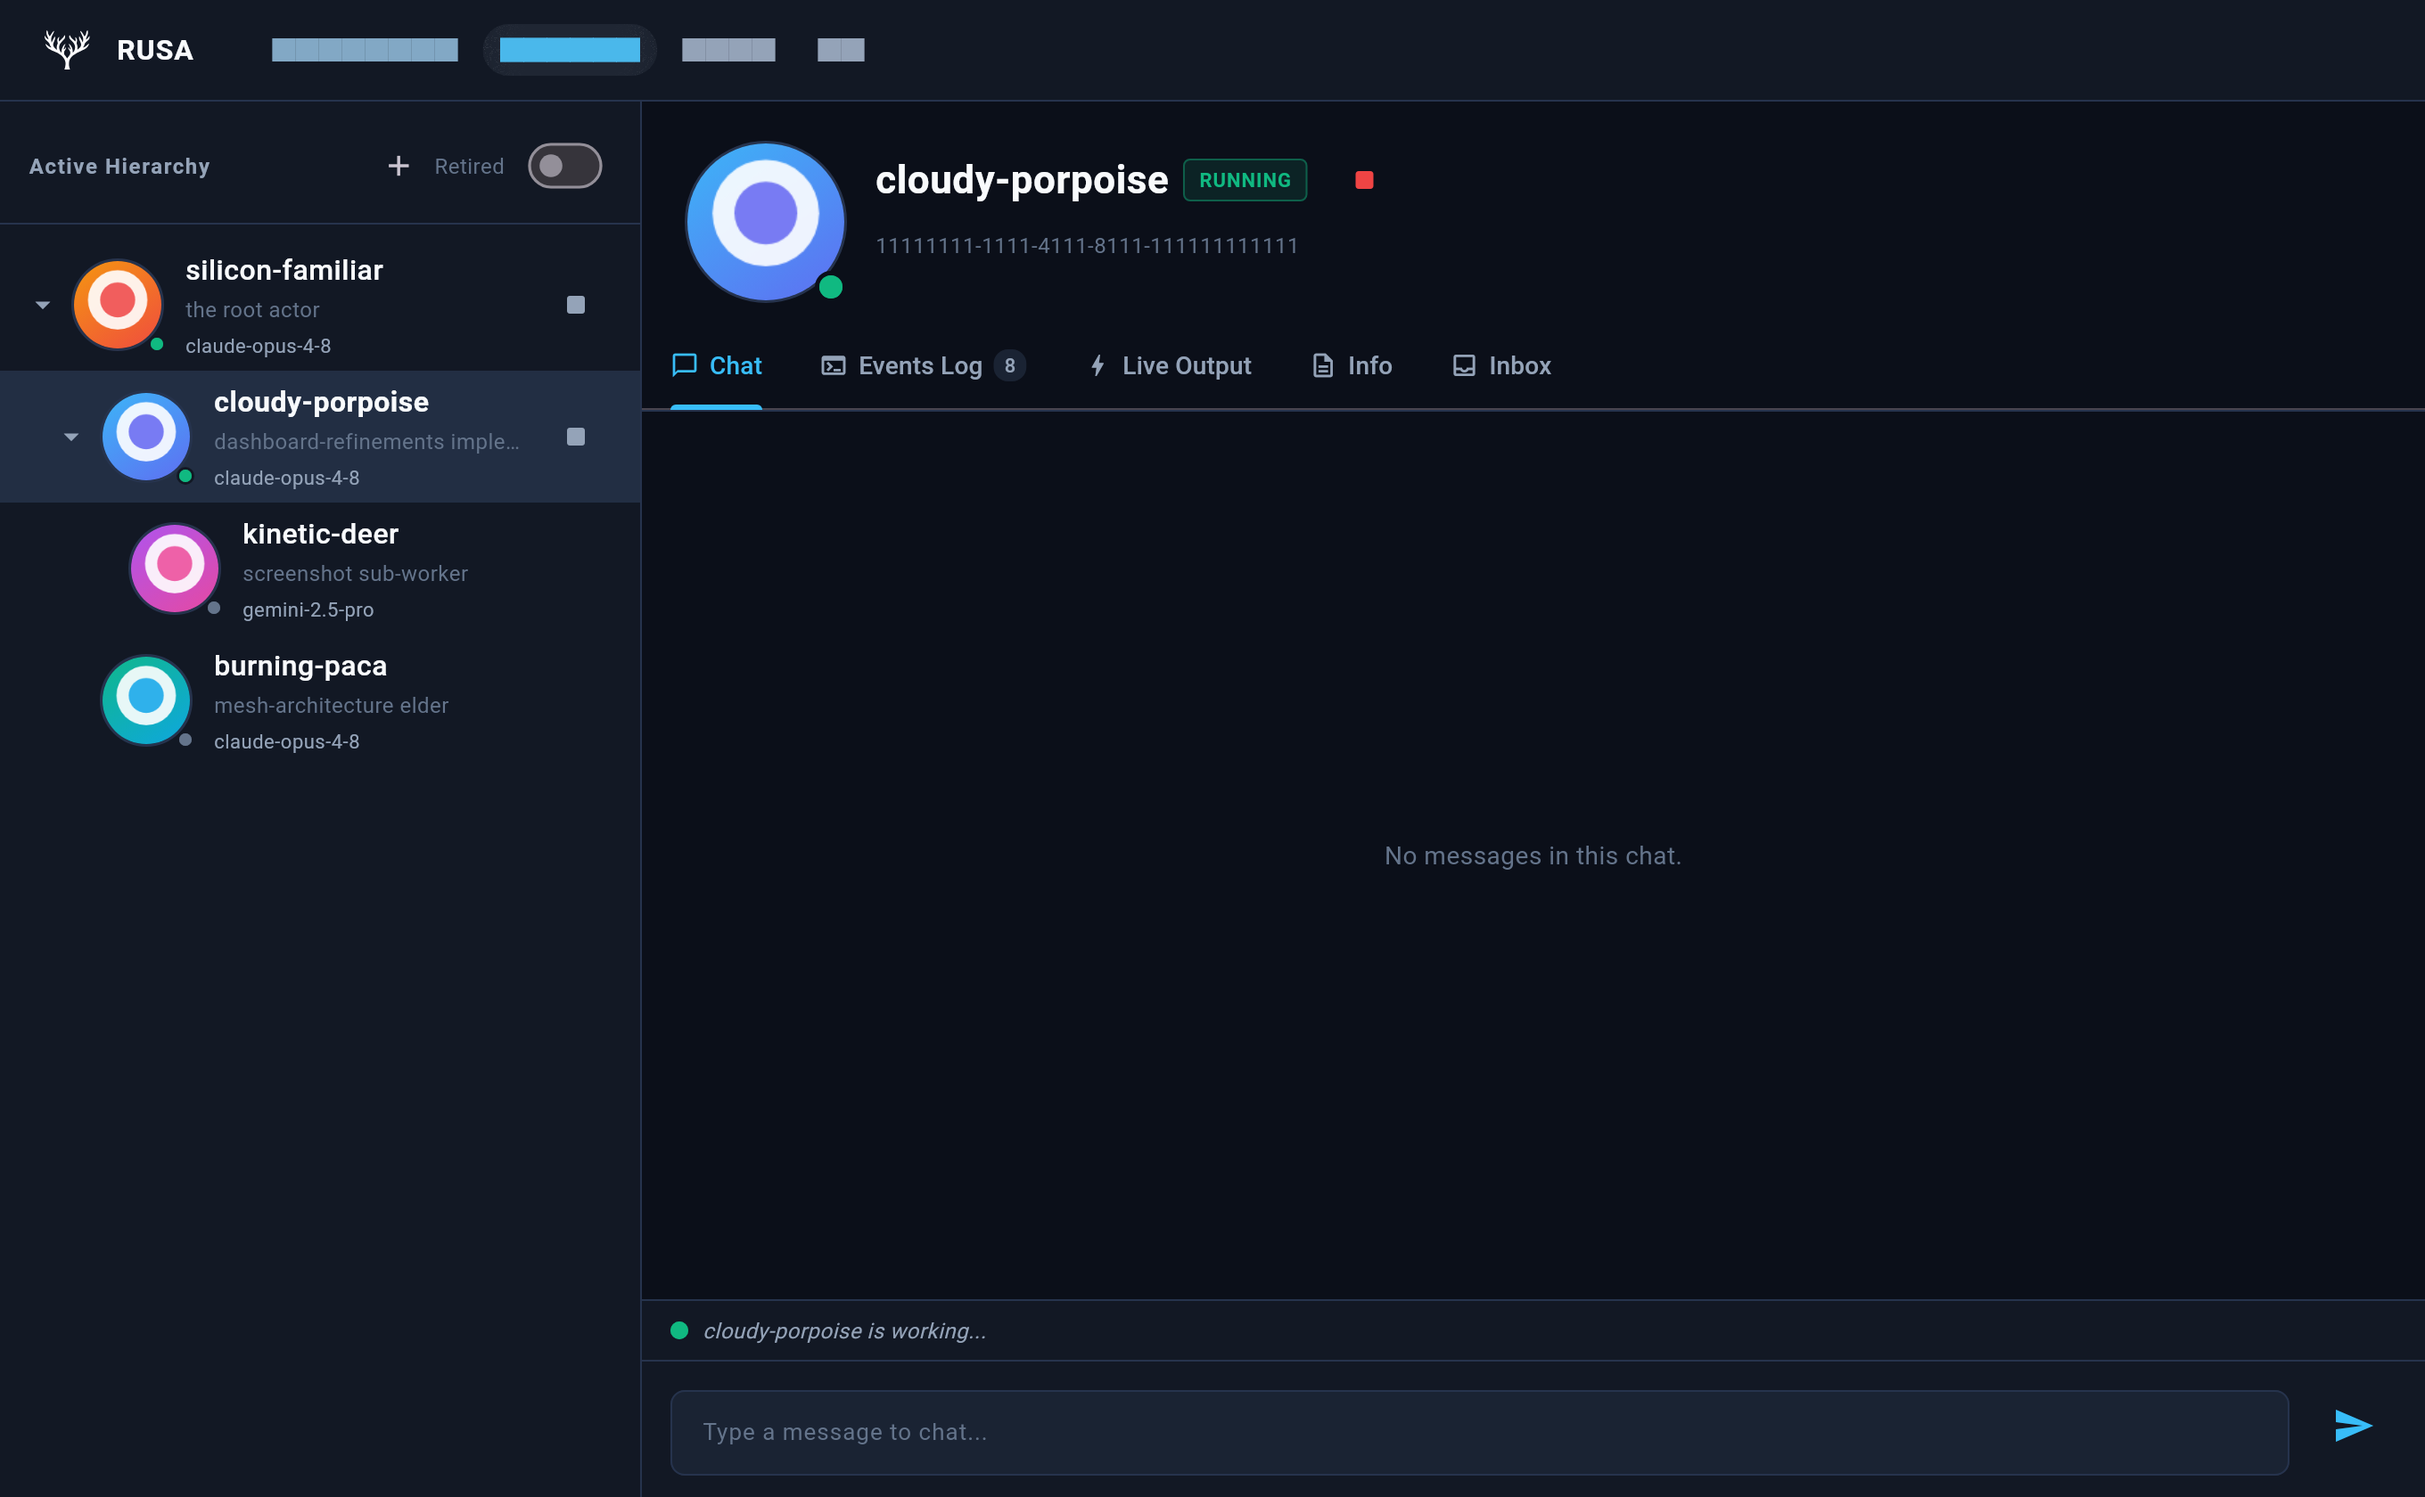
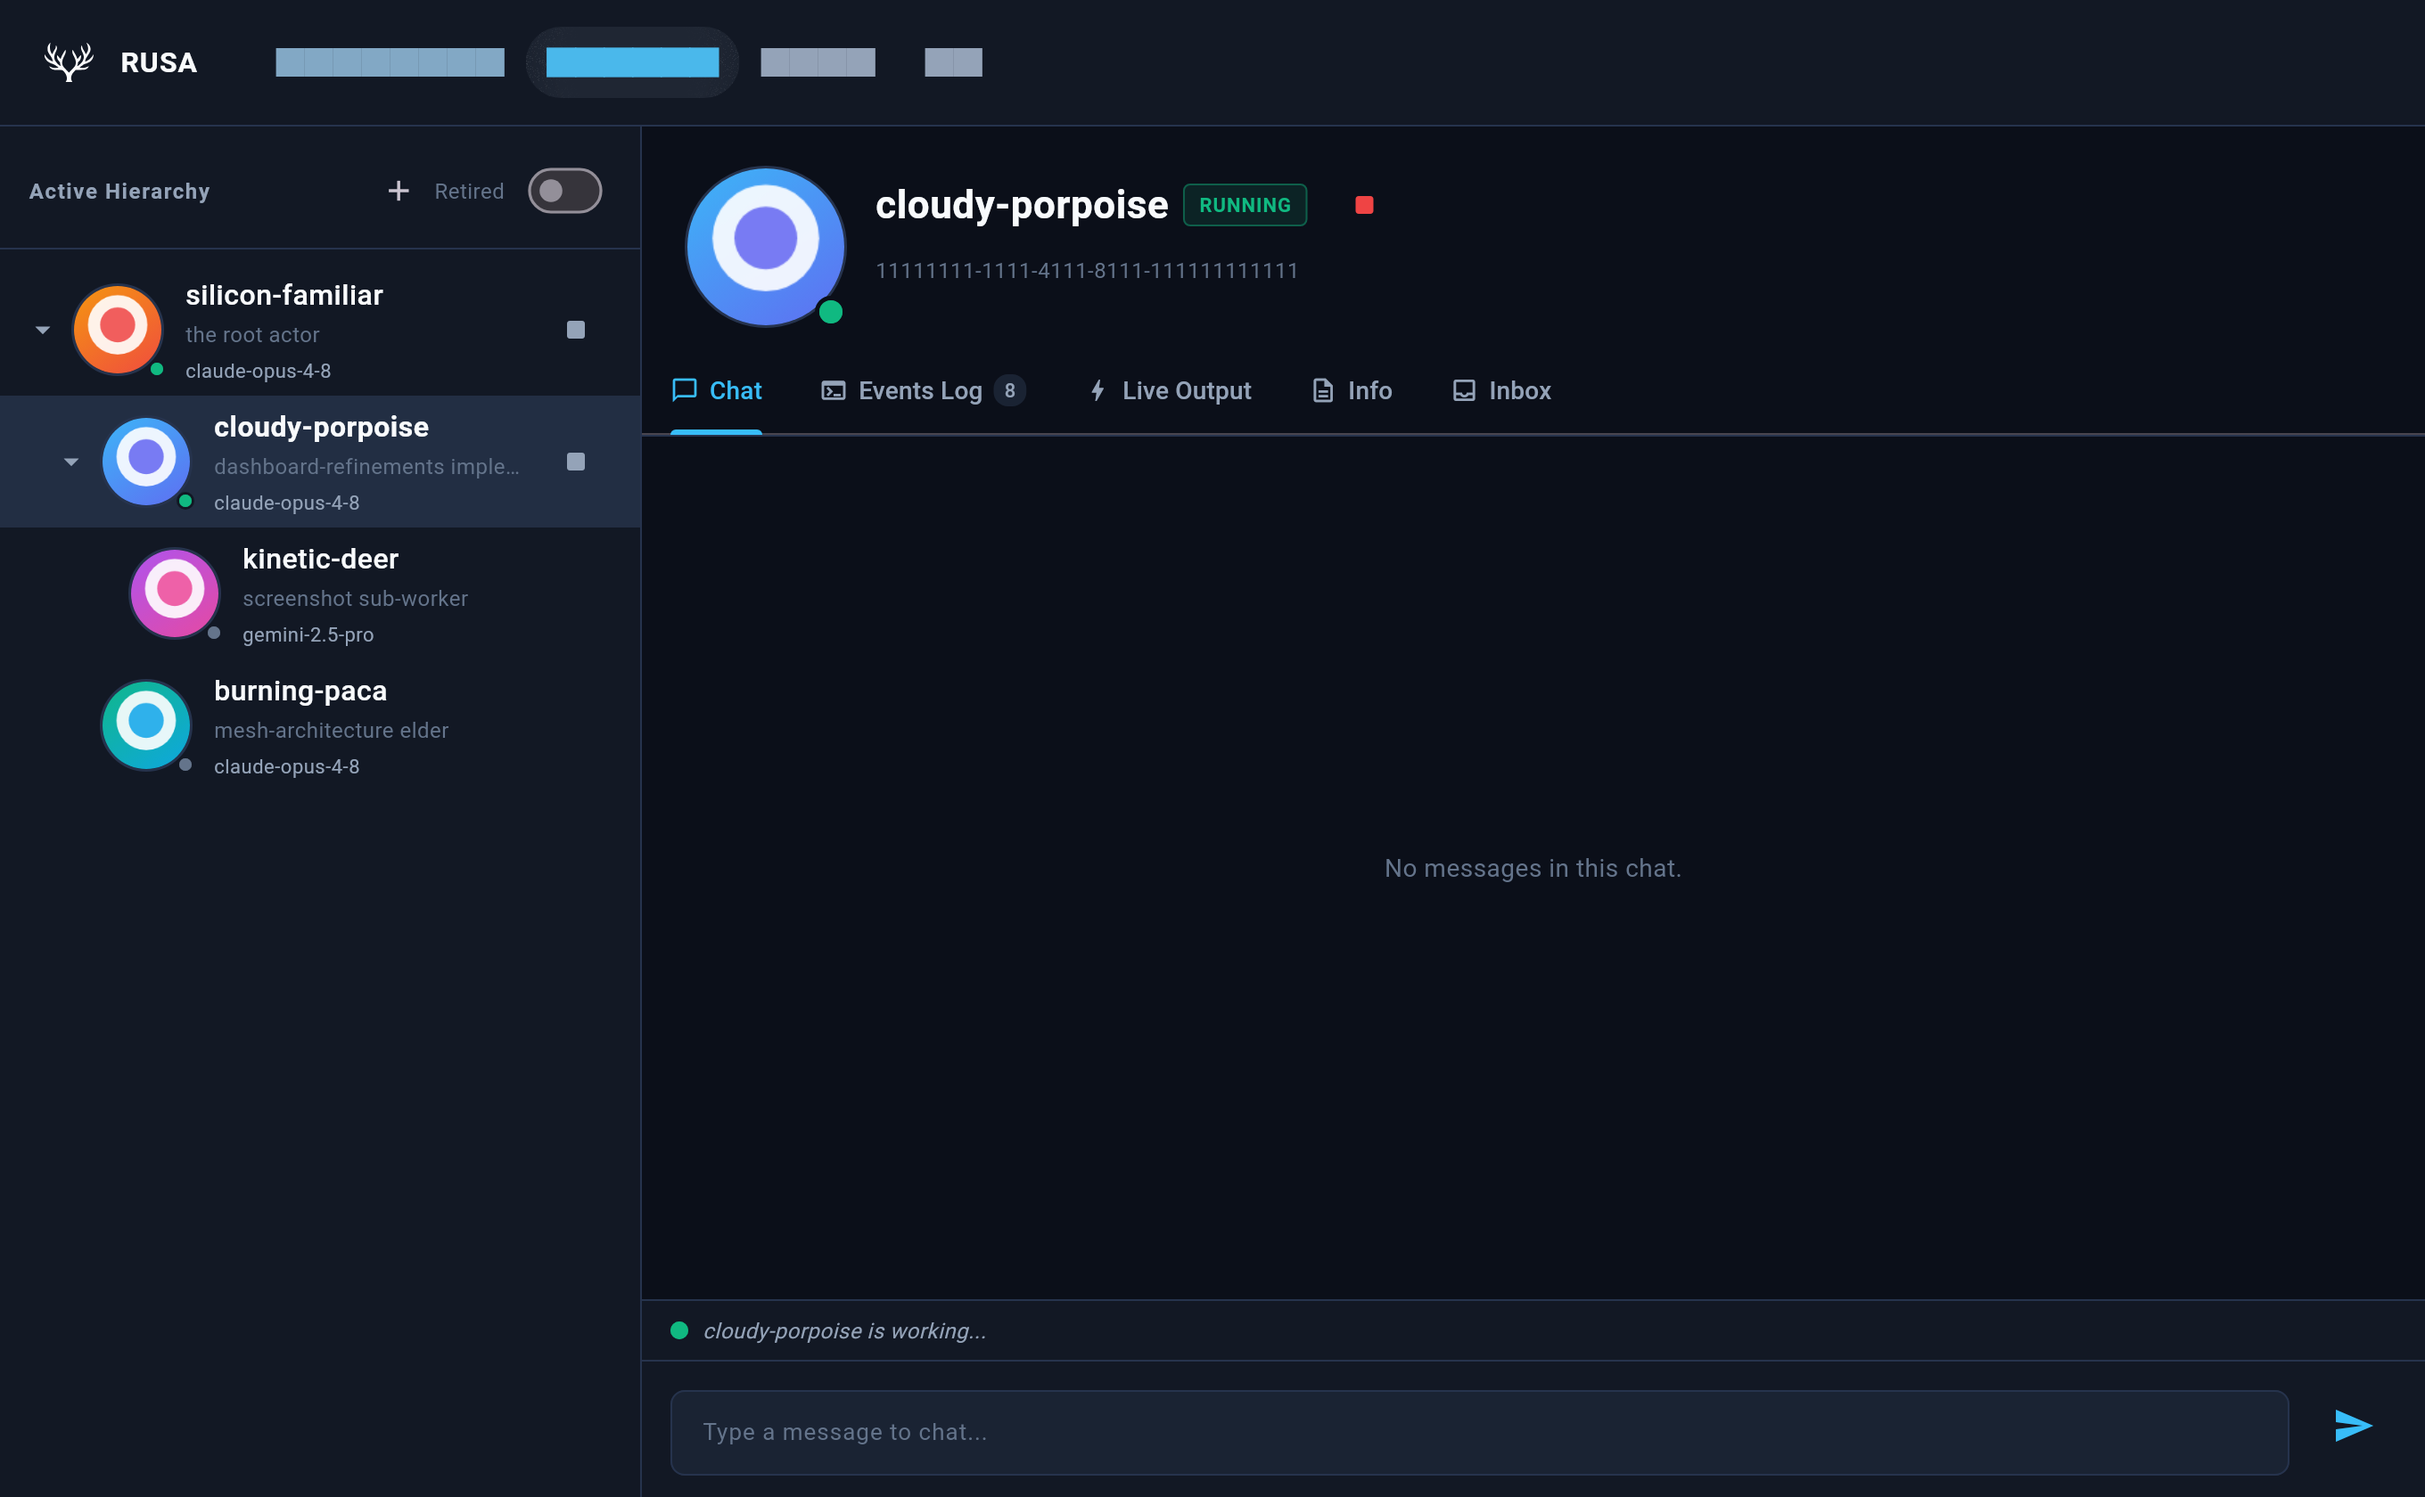
test(dashboard): cover narrow header mark review

diff --git a/packages/rusa/flutter_dashboard/test/header_mark_test.dart b/packages/rusa/flutter_dashboard/test/header_mark_test.dart
@@ -26,6 +26,20 @@ Widget _header(DashboardStore store) => MaterialApp(
   ),
 );
 
+Widget _phoneHeader(DashboardStore store, double width) => MaterialApp(
+  home: Scaffold(
+    body: SizedBox(
+      width: width,
+      child: MeshHeader(
+        store: store,
+        selected: DashboardView.actors,
+        onSelect: (_) {},
+        onMenuTap: () {},
+      ),
+    ),
+  ),
+);
+
 Widget _drawer(DashboardStore store) => MaterialApp(
   home: Scaffold(
     body: SizedBox(
@@ -205,6 +219,50 @@ void main() {
     expect(find.byType(BrandMark), findsOneWidget);
     await tester.runAsync(store.dispose);
   });
+
+  testWidgets(
+    'phone header keeps its actual compact controls inside 320px and 360px',
+    (tester) async {
+      final api = FakeApi()
+        ..halted = true
+        ..schedulerWarning = ['`atq` cannot be queried']
+        ..threadsResult = [makeThread('root', created: 't0')];
+      final store = DashboardStore(api: api, stream: FakeStream());
+      await tester.runAsync(store.init);
+      addTearDown(() => tester.binding.setSurfaceSize(null));
+
+      for (final width in [320.0, 360.0]) {
+        await tester.binding.setSurfaceSize(Size(width, 800));
+        await tester.pumpWidget(_phoneHeader(store, width));
+        await tester.pump(const Duration(milliseconds: 50));
+
+        final headerRect = tester.getRect(find.byType(MeshHeader));
+        // Phone navigation deliberately replaces BrandMark with the menu; the
+        // mark remains in the drawer, leaving the real header one compact row.
+        expect(find.byType(BrandMark), findsNothing);
+        expect(find.byIcon(Icons.menu), findsOneWidget);
+        expect(find.text('RUSA'), findsOneWidget);
+        expect(find.byIcon(Icons.pause_circle_filled), findsOneWidget);
+        expect(find.byIcon(Icons.warning_amber_rounded), findsOneWidget);
+        expect(find.text('Halted'), findsNothing);
+        expect(find.text('Scheduler'), findsNothing);
+
+        for (final finder in [
+          find.byIcon(Icons.menu),
+          find.text('RUSA'),
+          find.byIcon(Icons.pause_circle_filled),
+          find.byIcon(Icons.warning_amber_rounded),
+        ]) {
+          final rect = tester.getRect(finder);
+          expect(rect.left, greaterThanOrEqualTo(headerRect.left));
+          expect(rect.right, lessThanOrEqualTo(headerRect.right));
+        }
+        expect(tester.takeException(), isNull);
+      }
+
+      await tester.runAsync(store.dispose);
+    },
+  );
 
   testWidgets('phone shape swaps the mark for the menu but keeps the brand', (
     tester,

diff --git a/packages/rusa/flutter_dashboard/lib/widgets/brand_mark.dart b/packages/rusa/flutter_dashboard/lib/widgets/brand_mark.dart
@@ -10,7 +10,7 @@ class BrandMark extends StatelessWidget {
   const BrandMark({super.key});
 
   /// Fixed height constraint for the artwork box itself. Sized so the padded
-  /// widget sits comfortably centered in the 56px header row.
+  /// widget sits comfortably centered in the 70px header row.
   static const double _kArtworkHeight = 22;
 
   /// Surrounding space compensating for the artwork's tight crop.
